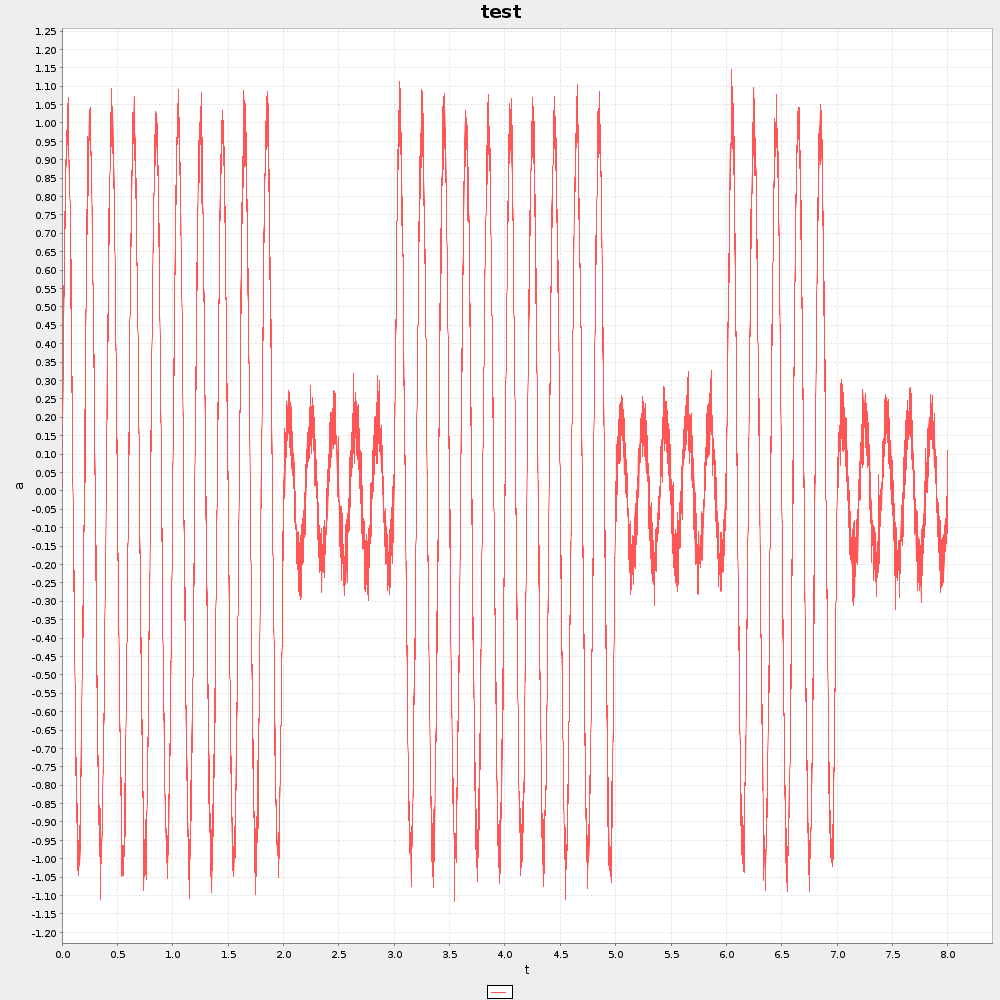
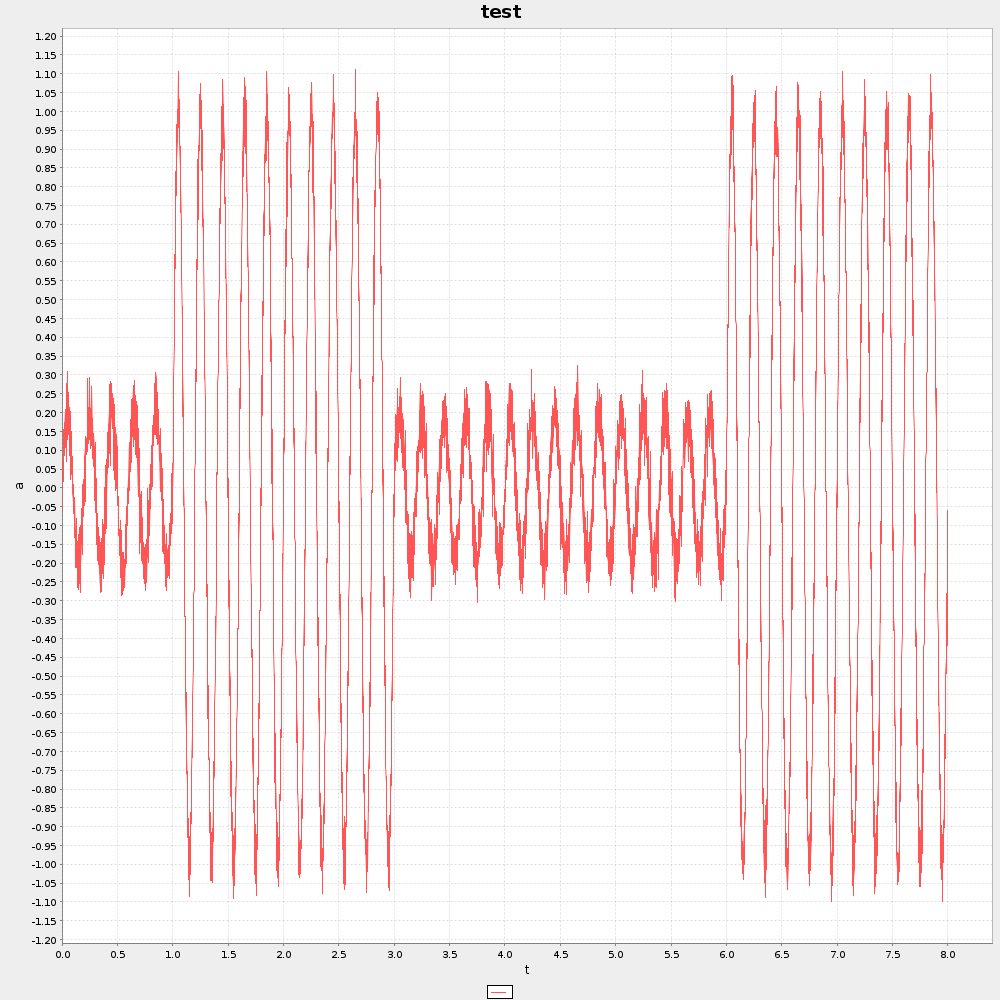
Added ASKModulator code, not working

diff --git a/channel-simulation/java-channel-simulation/src/main/java/receiver/ASKDemodulator.java b/channel-simulation/java-channel-simulation/src/main/java/receiver/ASKDemodulator.java
@@ -1,8 +1,37 @@
 package receiver;
 
 public class ASKDemodulator extends Demodulator {
+    private final double depth, amplitude, carrierF, modulationPeriod;
+    private double totalAmp;        // sum of amplitudes for the current time frame.
+    private int samplesThisFrame;   // number of samples taken in the current frame.
+                                    // used to calculate the average amplitude.
+    private int transitions;        // number of time frame transitions
+    private byte bitMask = 0b00000001;
+
     @Override
     public void receive(double f, double t) {
+        this.samplesThisFrame++;
+        this.totalAmp += f;
+        int frame = (int) Math.floor(t / this.modulationPeriod);
+        // if the number of bit transitions does not match the current frame, then move to the
+        // next bit.
+        if (this.transitions != frame) {
+            double avg = this.totalAmp / this.samplesThisFrame;
+            updateByte(this.bitMask, avg > this.amplitude * (1 - this.depth));
 
+            this.totalAmp = 0;
+            this.samplesThisFrame = 0;
+            this.bitMask <<= 1;
+            this.transitions++;
+        }
+
+        if (this.bitMask == (byte) 0b10000000) this.bitMask = 0b00000001;
+    }
+
+    public ASKDemodulator(double depth, double carrierAmp, double carrierF, double modulationF) {
+        this.depth = depth;
+        this.amplitude = carrierAmp;
+        this.carrierF = carrierF;
+        this.modulationPeriod = 1 / modulationF;
     }
 }

diff --git a/channel-simulation/java-channel-simulation/src/main/java/transmitter/ASKModulator.java b/channel-simulation/java-channel-simulation/src/main/java/transmitter/ASKModulator.java
@@ -4,27 +4,27 @@ public class ASKModulator extends Modulator {
 
     private final double depth, amplitude, carrierF, shiftPeriod;
     private byte currentByte;
-    private byte bitMask = 0b00000001;
+    private byte bitmask = 0b00000001;
     private int transitions;
 
     @Override
     public double output(double t) {
         // find the current bit frame that the system should be sending.
-        int frame = (int) Math.floor(t / shiftPeriod);
+        int frame = (int) Math.floor(t / this.shiftPeriod);
         // if the number of bit transitions does not match the current frame, then move to the
         // next bit.
-        if (transitions != frame) {
-            bitMask <<= 1;
-            transitions++;
+        if (this.transitions != frame) {
+            this.bitmask <<= 1;
+            this.transitions++;
         }
         // if the bitMask is 8 then reset it to 0 and request the next byte to be sent.
-        if (bitMask == 0) {
-            bitMask = 0b00000001;
-            currentByte = super.getDatastream().nextByte();
+        if (this.bitmask == 0) {
+            this.bitmask = 0b00000001;
+            this.currentByte = super.getDatastream().nextByte();
         }
 
-        boolean bit = (bitMask & currentByte) != 0;
-        double f = amplitude * Math.sin(2 * Math.PI * carrierF * t);
+        boolean bit = (this.bitmask & this.currentByte) != 0;
+        double f = this.amplitude * Math.sin(2 * Math.PI * this.carrierF * t);
 
         if (!bit) f *= 1 - depth;
 

diff --git a/channel-simulation/java-channel-simulation/src/main/java/main/Main.java b/channel-simulation/java-channel-simulation/src/main/java/main/Main.java
@@ -2,6 +2,8 @@ package main;
 
 import channel.Channel;
 import org.jfree.data.xy.XYDataItem;
+import receiver.ASKDemodulator;
+import receiver.Receiver;
 import transmitter.ASKModulator;
 import transmitter.RandomStream;
 
@@ -10,15 +12,20 @@ public class Main {
         int samplePeriod = 8;
         int sampleFrequency = 1000;
 
+        double depth = .8, amplitude = 1, carrierF = 5, modulationF = 1;
+
         XYDataItem[] data = new XYDataItem[sampleFrequency * samplePeriod];
-        ASKModulator modulator = new ASKModulator(0.8, 1, 5, 1, new RandomStream());
+        ASKModulator modulator = new ASKModulator(depth, amplitude, carrierF, modulationF, new RandomStream());
         Channel channel = new Channel(modulator.getRMS(), 24);
+        Receiver receiver = new Receiver(new ASKDemodulator(depth, amplitude, carrierF, modulationF));
 
         double time = 0;
         for (int i = 0; i < data.length; i++) {
             double f = modulator.output(time);
             f = channel.output(f);
             data[i] = new XYDataItem(time, f);
+            receiver.receive(f, time);
+
             time += (double) samplePeriod / data.length;
         }
 

diff --git a/channel-simulation/java-channel-simulation/src/main/java/receiver/Receiver.java b/channel-simulation/java-channel-simulation/src/main/java/receiver/Receiver.java
@@ -1,0 +1,44 @@
+package receiver;
+
+import main.Filter;
+
+public class Receiver {
+
+    private Filter filter;
+    private Demodulator demodulator;
+    private final DataOut dataOut;
+
+    private static class DataOut implements Observer {
+        @Override
+        public void notifyThis(byte value) {
+            System.out.println(value);
+        }
+    }
+
+    public void receive(double f, double t) {
+        if (filter != null) f = filter.filter(f);
+        demodulator.receive(f, t);
+    }
+
+    public Receiver(Filter filter, Demodulator demodulator) {
+        this.filter = filter;
+        this.demodulator = demodulator;
+        dataOut = new DataOut();
+        demodulator.addObserver(dataOut);
+    }
+
+    public Receiver(Demodulator demodulator) {
+        this.filter = null;
+        this.demodulator = demodulator;
+        dataOut = new DataOut();
+        demodulator.addObserver(dataOut);
+    }
+
+    public void setFilter(Filter filter) {
+        this.filter = filter;
+    }
+
+    public void setDemodulator(Demodulator demodulator) {
+        this.demodulator = demodulator;
+    }
+}

diff --git a/channel-simulation/java-channel-simulation/src/main/java/receiver/Demodulator.java b/channel-simulation/java-channel-simulation/src/main/java/receiver/Demodulator.java
@@ -8,7 +8,22 @@ public abstract class Demodulator {
 
     protected void notifyObservers() {
         for (Observer o : observers)
-            o.notifyObserver();
+            o.notifyThis(currentByte);
     }
+
+    public void addObserver(Observer observer) {
+        this.observers.add(observer);
+    }
+
     public abstract void receive(double f, double t);
+
+    public void updateByte(byte bitMask, boolean bit) {
+        if (bit) this.currentByte |= bitMask;
+        else {
+            byte invertMask = (byte) (currentByte & bitMask);
+            currentByte ^= invertMask;
+        }
+
+        if (bitMask == (byte) 0b10000000) notifyObservers();
+    }
 }

diff --git a/channel-simulation/java-channel-simulation/src/main/java/receiver/Observer.java b/channel-simulation/java-channel-simulation/src/main/java/receiver/Observer.java
@@ -1,5 +1,5 @@
 package receiver;
 
 public interface Observer {
-    void notifyObserver();
+    void notifyThis(byte value);
 }
